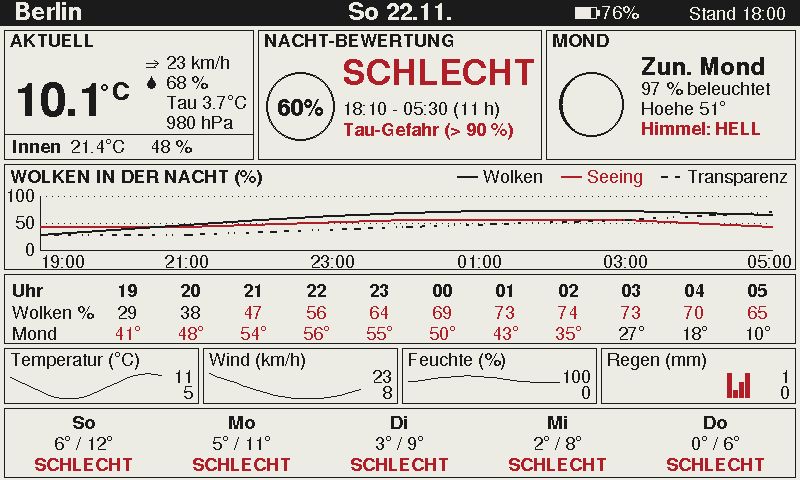
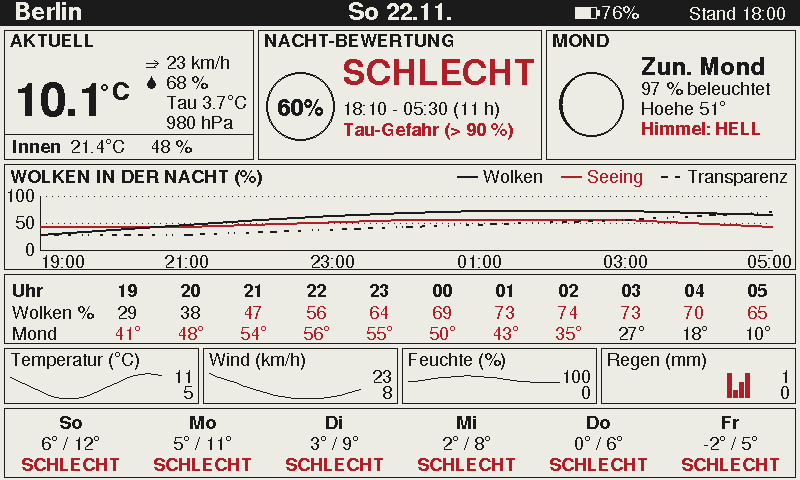
6-Tage-Vorschau, README-Mockup aktualisiert
- Vorhersage zeigt 6 Tage (FORECAST_SHOW_DAYS), abgerufen werden 7
  (FORECAST_DAYS), damit auch die letzte Nacht bis 04:00 Daten hat
- README-Bild: neue pixelgenaue Vorschau vom 22.11.

Changed region(s): [[0.1875, 0.8438, 0.9688, 1.0], [0.0312, 0.875, 0.1562, 1.0], [0.5625, 0.8438, 0.5938, 0.9062]]

diff --git a/src/rendering/display_base.cpp b/src/rendering/display_base.cpp
@@ -876,7 +876,7 @@ static void drawMiniCharts(const WeatherData& wd) {
 }
 
 // ---------------------------------------------------------------------
-//  Einzelblock: FORECAST 4-5 Tage
+//  Einzelblock: FORECAST (FORECAST_SHOW_DAYS Tage)
 // ---------------------------------------------------------------------
 //  Pro Tag: Wochentag, Tmin/Tmax, Niederschlag, kleines Symbol.
 //  Bewertung der Nacht: berechnen wir hier "leichtgewichtig" anhand
@@ -916,7 +916,7 @@ static void drawForecast(const WeatherData& wd) {
   display.drawRect(FC_X, FC_Y, FC_W, FC_H, GxEPD_BLACK);
 
   uint8_t n = wd.dailyCount;
-  if (n > 5) n = 5;
+  if (n > FORECAST_SHOW_DAYS) n = FORECAST_SHOW_DAYS;
   if (n < 1) return;
 
   int16_t cellW = FC_W / n;

diff --git a/config.h b/config.h
@@ -83,7 +83,10 @@
 // ---------------------------------------------------------------------
 //  Sonstiges
 // ---------------------------------------------------------------------
-#define FORECAST_DAYS          5
+// Abgerufene Tage. Einer mehr als angezeigt (FORECAST_SHOW_DAYS),
+// damit auch die letzte Nacht bis 04:00 Daten hat.
+#define FORECAST_DAYS          7
+#define FORECAST_SHOW_DAYS     6
 #define HTTP_USER_AGENT        "AstroOyInk/0.1 (ESP32)"
 
 // ---------------------------------------------------------------------

diff --git a/README.md b/README.md
@@ -73,7 +73,7 @@ N.I.N.A. Advanced API erreichbar ist **und** eine Sequenz läuft.
 - 🪐 **Seeing & Transparenz** von 7Timer! als Kurven im Chart
 - 🌙 **Mondhöhe je Nachtstunde** in der Stundentabelle, ab 30° rot
 - ⚠ **Wind- und Tau-Warnung** ab 25 km/h bzw. 90 % Feuchte
-- 📊 Mini-Charts (Temp, Wind, Feuchte, Regen) und **5-Tage-Vorschau**
+- 📊 Mini-Charts (Temp, Wind, Feuchte, Regen) und **6-Tage-Vorschau**
 
 </td>
 <td width="50%" valign="top">
@@ -294,7 +294,7 @@ Der Netz-Scan läuft nur von **1 h vor Sonnenuntergang bis 1 h nach Sonnenaufgan
 ├──────────────────────────────────────────────────────────────────────┤
 │ Temp │ Wind │ Feuchte │ Regen      (Mini-Charts 24 h)                │
 ├──────────────────────────────────────────────────────────────────────┤
-│    Mi        Do        Fr        Sa        So     (Tmin/Tmax/Nacht)  │
+│   Mi      Do      Fr      Sa      So      Mo    (Tmin/Tmax/Nacht)  │
 └──────────────────────────────────────────────────────────────────────┘
 ```
 

diff --git a/CHANGELOG.md b/CHANGELOG.md
@@ -19,7 +19,10 @@ Alle relevanten Änderungen am Projekt.
   GUT/MITTEL/SCHLECHT, ruhigeres Wolken-Chart mit drei 2-px-Linien.
 - Transparenz-Linie schwarz gestrichelt — bei gleichen Werten lag sie
   unsichtbar unter der roten Seeing-Linie.
-- Vorhersage ohne Überschrift „VORHERSAGE“, fünf Tage über die volle Breite.
+- Vorhersage ohne Überschrift „VORHERSAGE“, jetzt **6 Tage** über die volle
+  Breite (`FORECAST_SHOW_DAYS`). Abgerufen werden 7 Tage (`FORECAST_DAYS`),
+  damit auch die letzte Nacht bis 04:00 Daten hat — vorher beruhte die
+  Bewertung des letzten Tages nur auf 22–23 Uhr.
 - Regenbalken mindestens 3 px hoch (0,1 mm war nur ein Strich).
 - Log unterscheidet „N.I.N.A. nicht erreichbar“ und „keine laufende Sequenz“.
 
